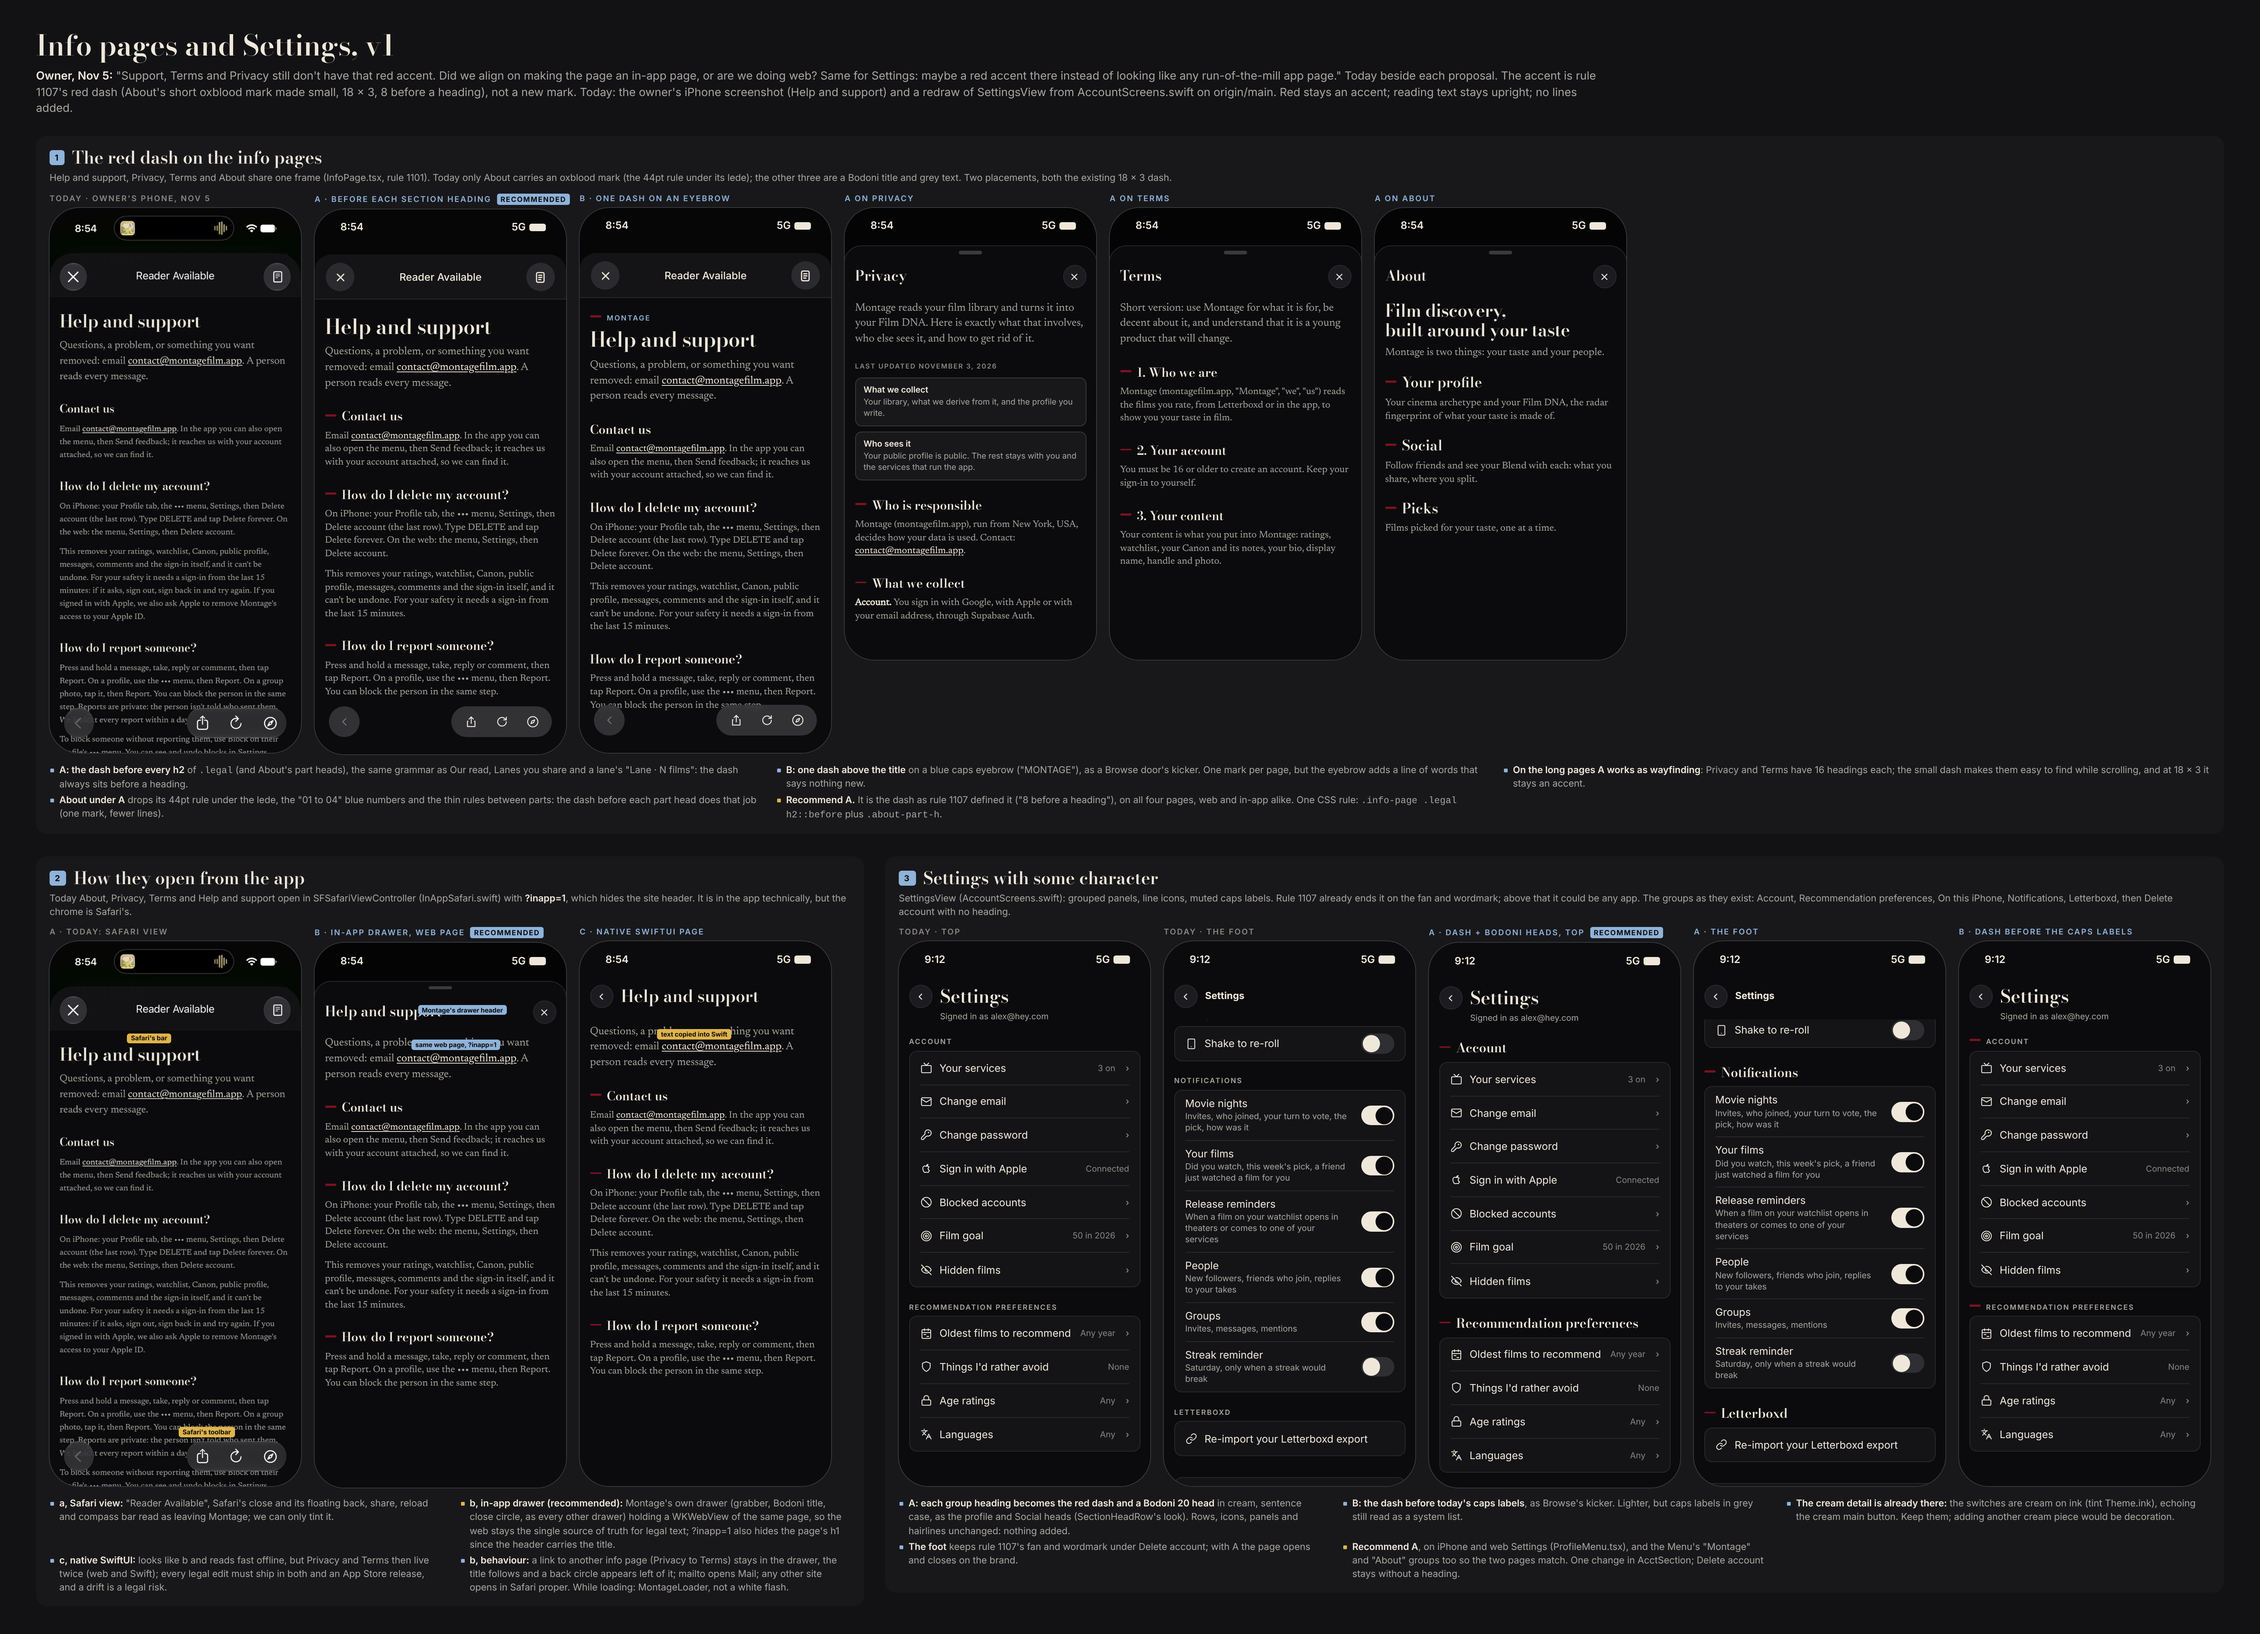
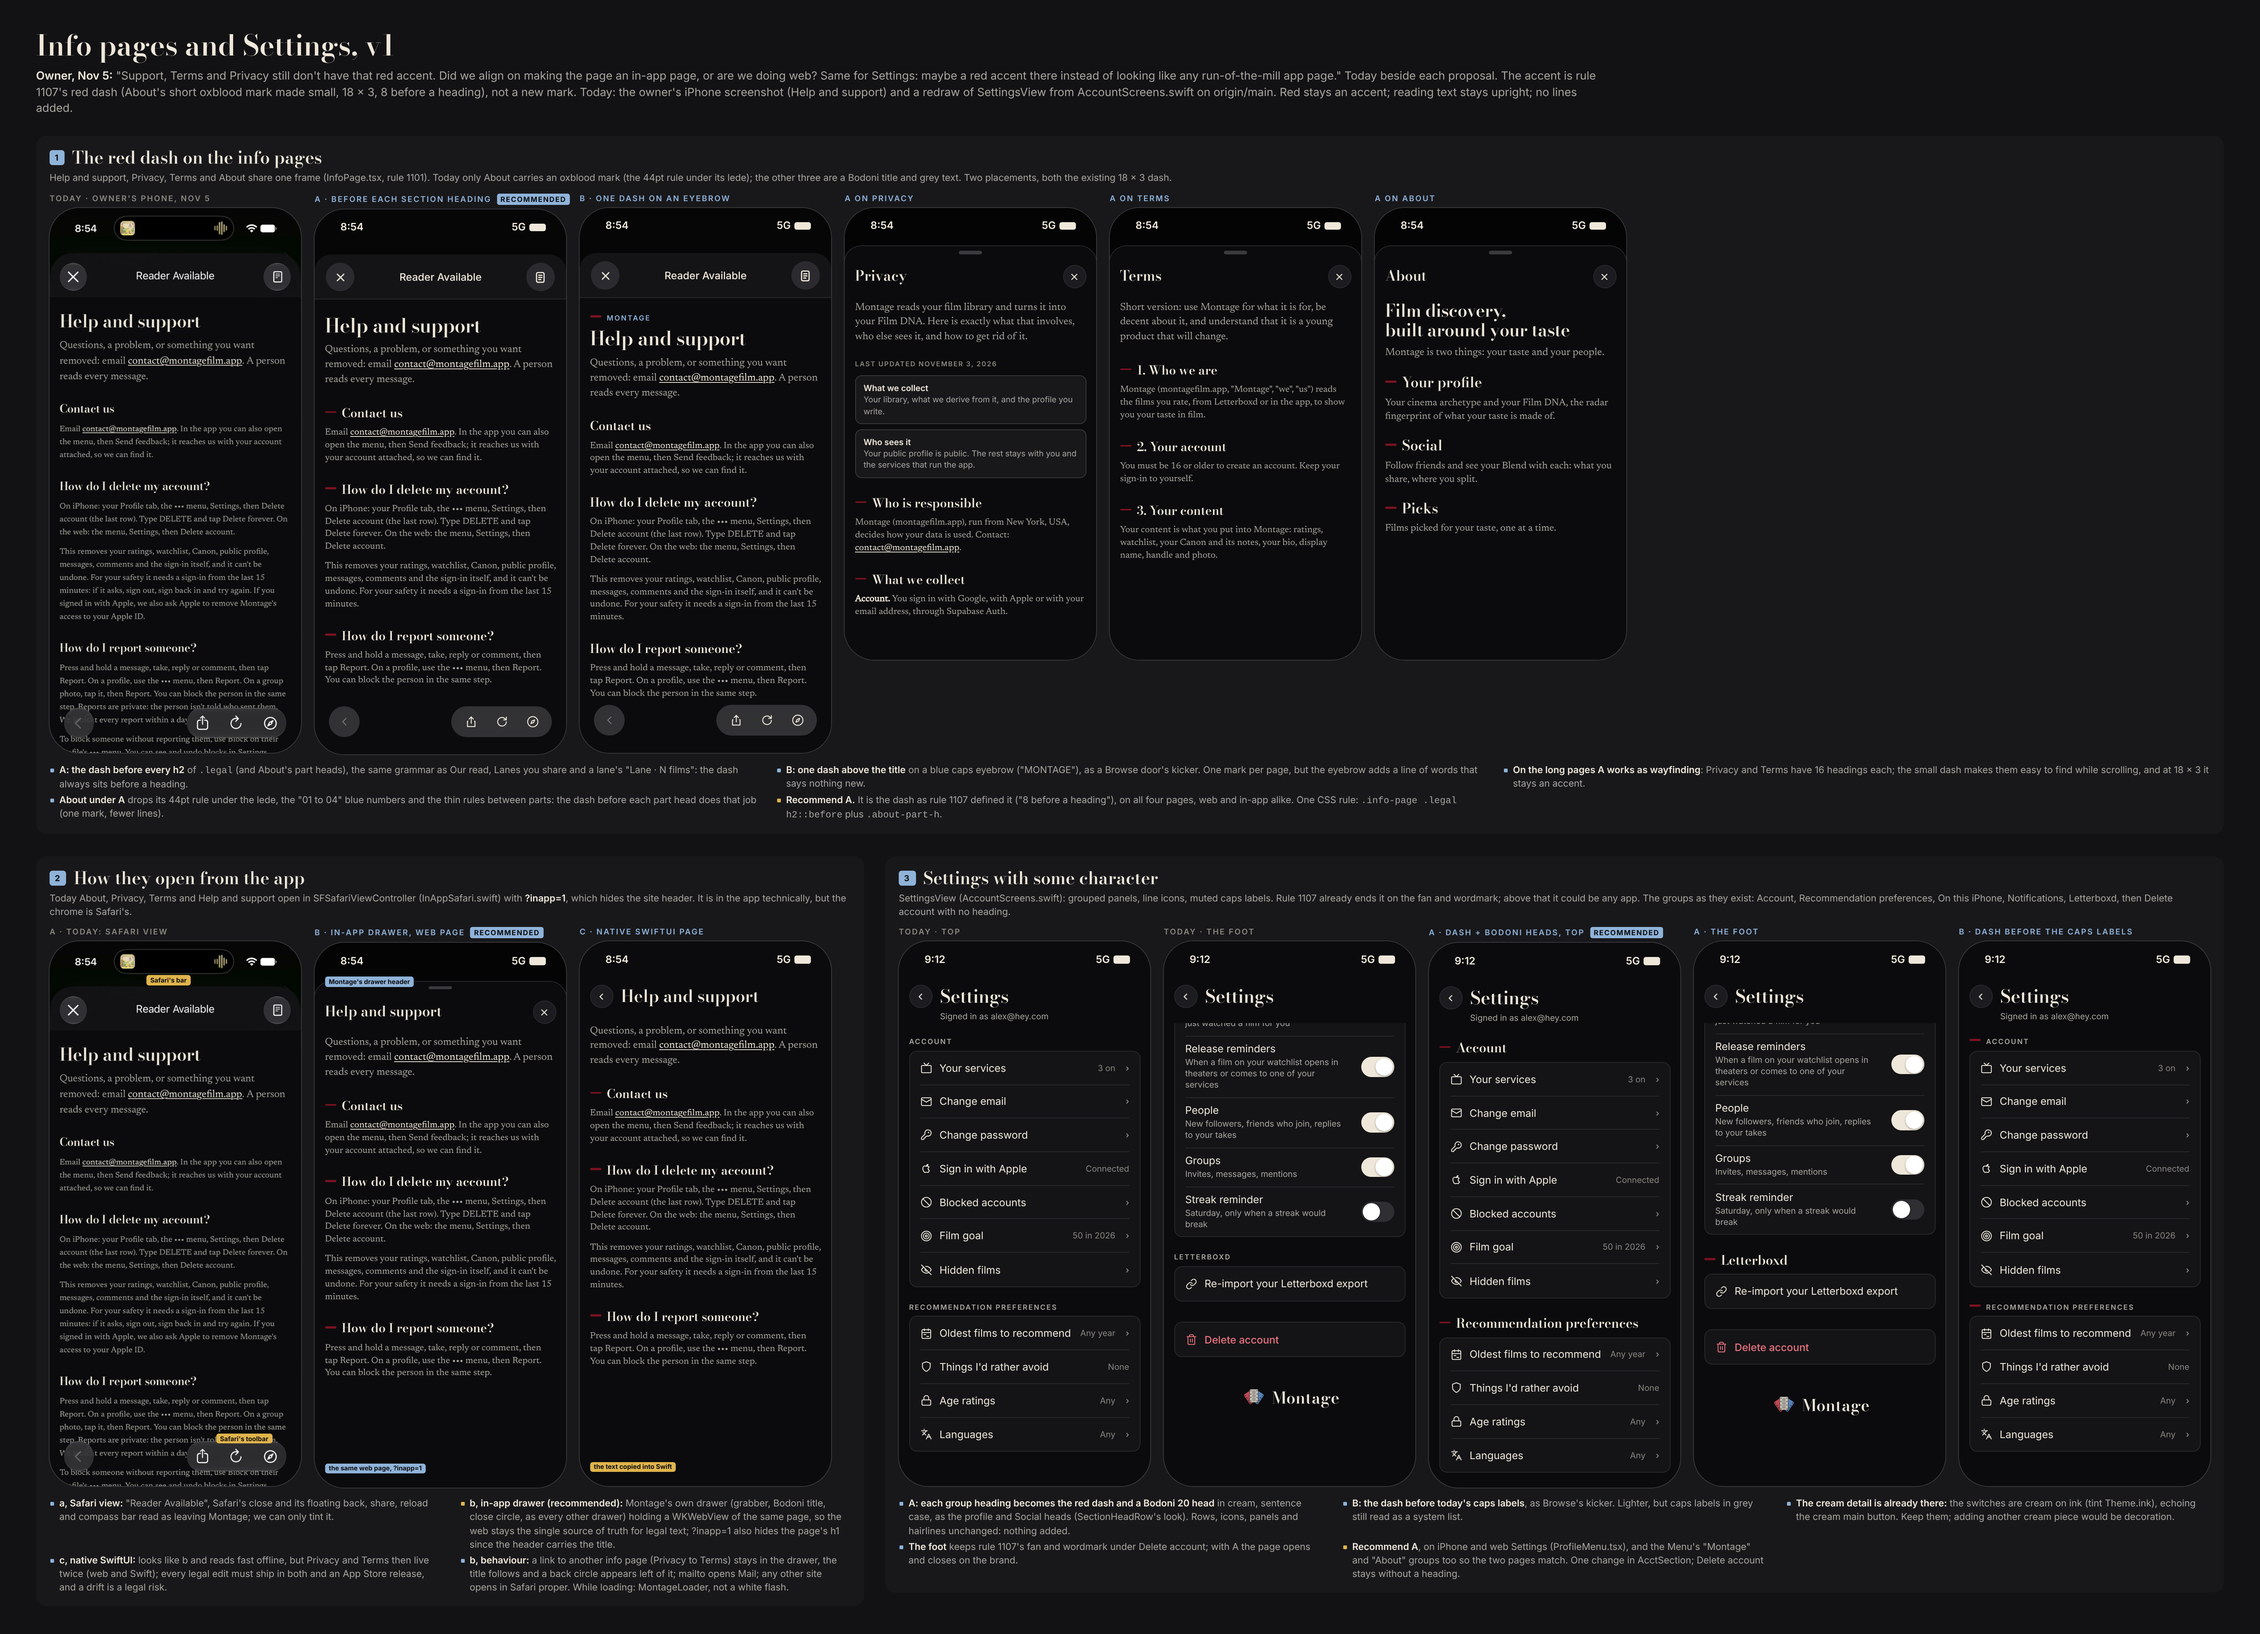
Info pages and Settings v1: the red dash on the info pages (2 placements), Safari view vs in-app drawer vs native, Settings with dash and Bodoni group heads
Claude-Session: https://claude.ai/code/session_013WRDCFXH8nihP92apJAVW7

diff --git a/mockups/journeys/info-settings-v1.html b/mockups/journeys/info-settings-v1.html
@@ -94,12 +94,12 @@ svg{fill:none;stroke:currentColor;stroke-width:1.75;stroke-linecap:round;stroke-
 .r.tg .tx{flex:1}
 .r.tg .tx small{display:block;font:400 13px/1.35 Inter;color:#A9A69E;margin-top:3px}
 .sw{flex:none;width:51px;height:31px;border-radius:16px;background:#EFE8DA;position:relative;margin-left:8px}
-.sw:after{content:"";position:absolute;right:2px;top:2px;width:27px;height:27px;border-radius:50%;background:#0B0B0D}
-.sw.off{background:#2E2E33}.sw.off:after{right:auto;left:2px;background:#EFE8DA}
+.sw:after{content:"";position:absolute;right:2px;top:2px;width:27px;height:27px;border-radius:50%;background:#fff;box-shadow:0 1px 3px rgba(0,0,0,.35)}
+.sw.off{background:#2E2E33}.sw.off:after{right:auto;left:2px}
 .lock{display:flex;align-items:center;justify-content:center;gap:6px;margin-top:40px}
 .lock img{width:44px;height:44px}
 .lock b{font:600 25px/1 'Bodoni Moda';letter-spacing:.3px;position:relative;top:2px}
-.fade{position:absolute;left:0;right:0;top:50px;height:76px;background:#0B0B0D;z-index:3}
+.fade{position:absolute;left:0;right:0;top:0;height:126px;background:#0B0B0D;z-index:3}
 .tag{position:absolute;z-index:9;font:700 10px Inter;color:#0B0B0D;background:#8FB3D9;border-radius:4px;padding:2px 6px;white-space:nowrap}
 .tag.w{background:#E0B44C}
 </style></head><body>
@@ -209,7 +209,7 @@ function settingsFoot(look) {
     <div class="grp">${row('link', 'Re-import your Letterboxd export', '', false)}</div>
     <div class="grp" style="margin-top:32px"><div class="r dg">${svg('trash')}<span>Delete account</span></div></div>
     <div class="lock"><img src="fan.svg"><b>Montage</b></div>
-  </div><div class="fade"><div class="st" style="top:0">${stHead}</div></div></div>`;
+  </div><div class="fade"><div class="st">${stHead}</div></div></div>`;
 }
 
 /* ---------- the blocks ---------- */
